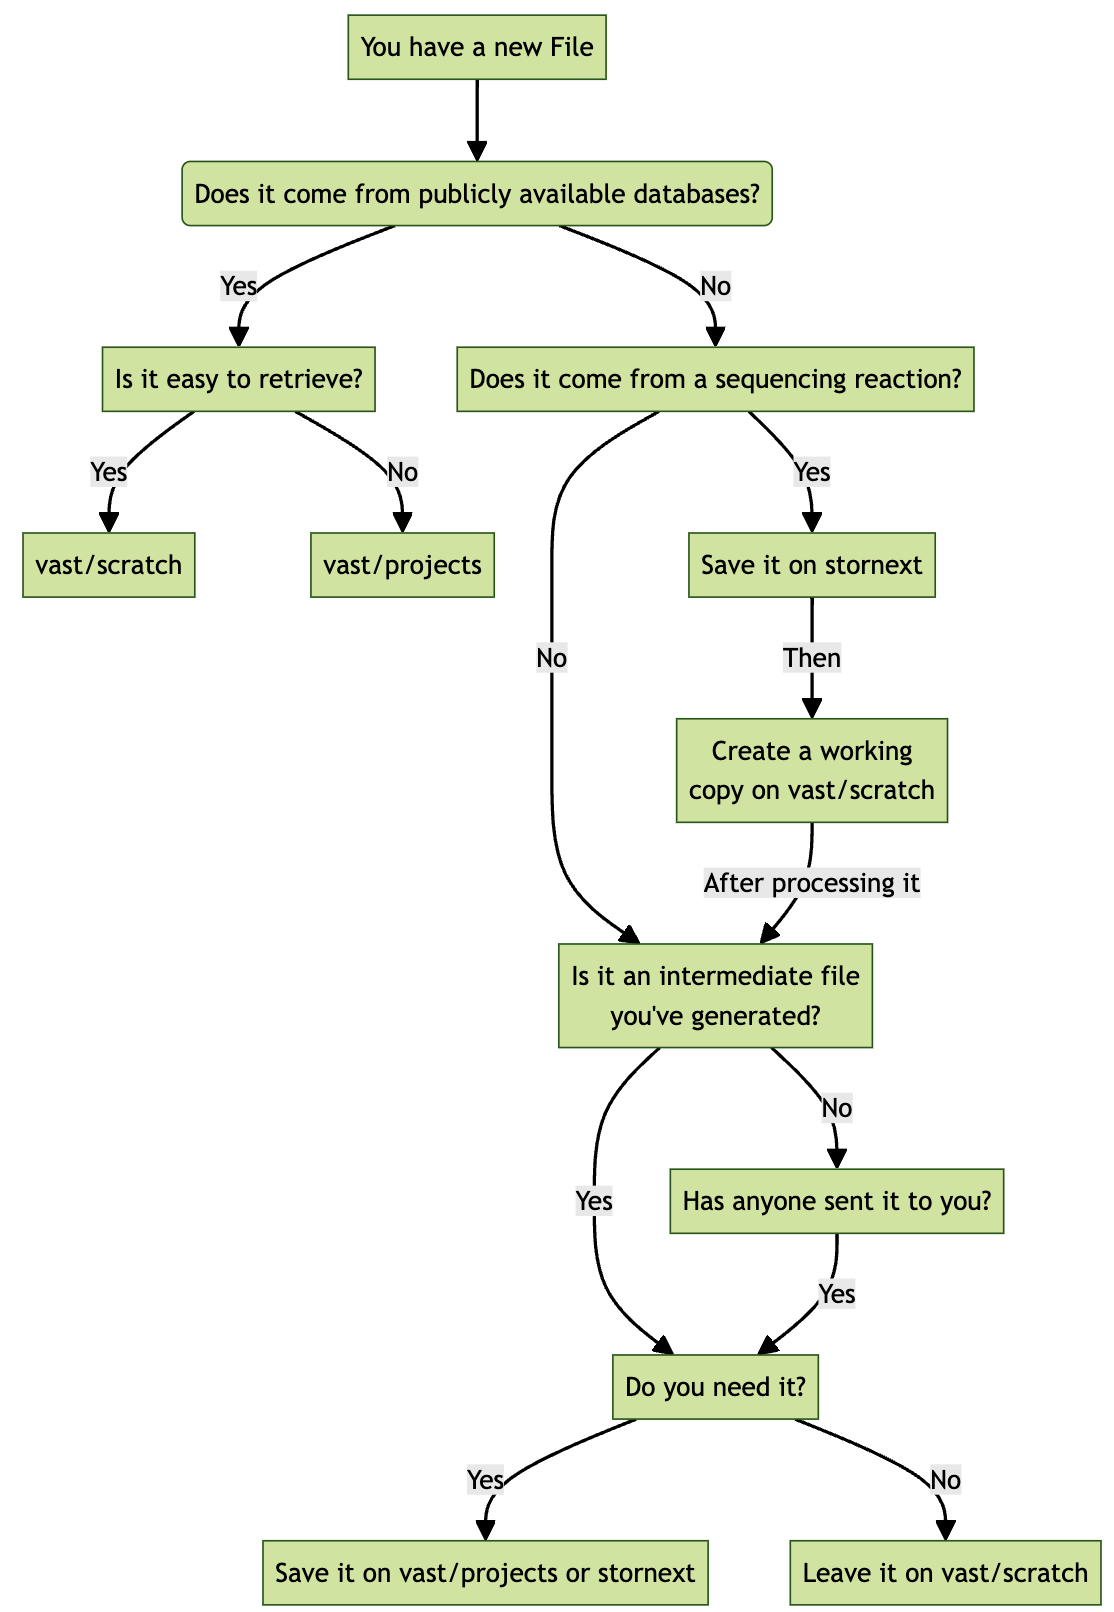
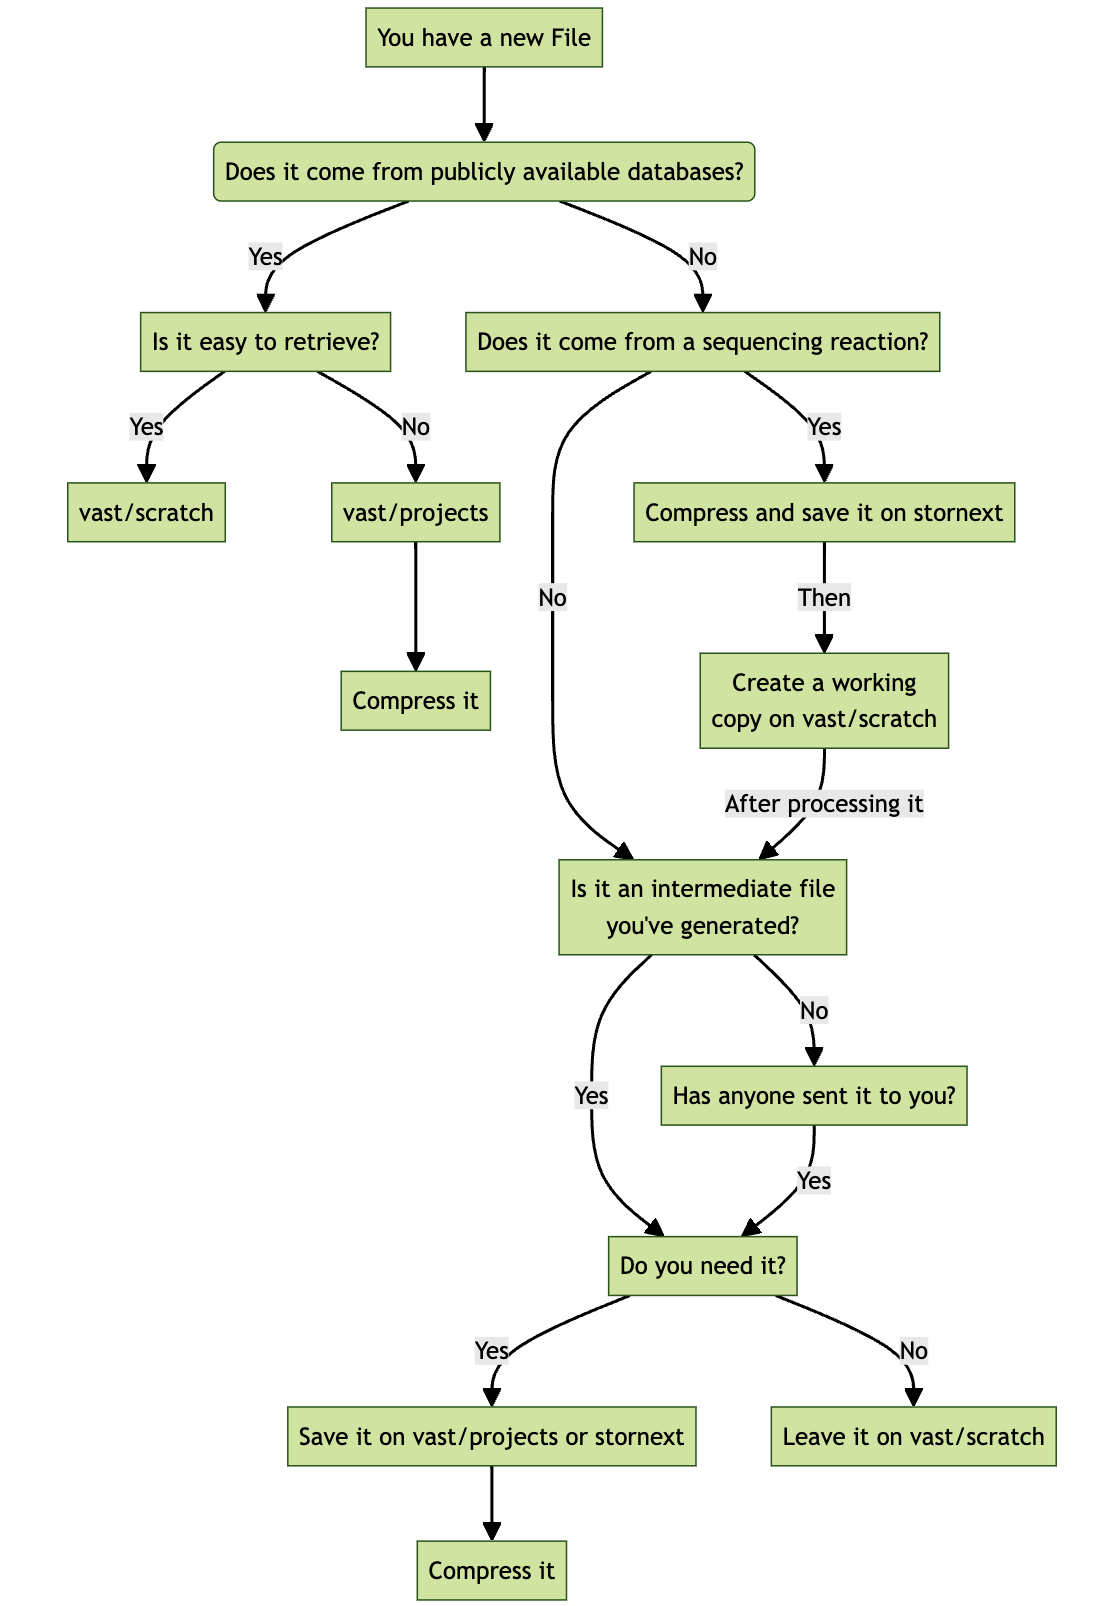
new doc on how to run executable commands

Changed region(s): [[0.0, 0.0, 1.0, 1.0]]

diff --git a/docs/managing-files-and-disk-quota.md b/docs/managing-files-and-disk-quota.md
@@ -5,7 +5,6 @@
   - [Managing data on Stornext](#managing-data-on-stornext)
     - [Archiving and retrieving files](#archiving-and-retrieving-files)
   - [VAST file system](#vast-file-system)
-  - [Best practices](#best-practices)
   - [Resources](#resources)
 --------------------------------------------------
 
@@ -68,10 +67,19 @@ Below you can find a list of commands that might be useful for checking disk spa
 
 Stornext is a file system that allows data to be stored and archived at the same time. Data are backed up to tape routinely which allows you to retrieve them in case of truncation. Space on stornext should be 1Tb by default, extendable to up to 5Tb but this requires justificatons from lab heads to WEHI IT support.
 
+Regardless of the space available on stornext, you should compress each file (and eventually tar project dirs). Compressing can be done anywhere, not only on stornext, using the `pigz` module (a faster/parallel version of `gzip`) as:
+```
+module load pigz/ 
+
+pigz --fast <file?> ## for faster compression 
+pigz --best <file? ## slower but achieves better compression
+
+```
 
 ### Archiving and retrieving files
 
 Because data on stornext are backed up onto a tape-based filesystem, any given file on stornext has 2 copies: 1)a disk and 2) an archived copy. To inspect this, upon logging into Milton and navigating to the lab stornext project directory, you can run the following command:
+
 ```
 module load stornext/  ## load the stornext module
 snfileinfo <file> 
@@ -143,30 +151,6 @@ An adequate and smart usage of all the 3 storage areas:
 Should be enough to manage most projects within the lab, check the [best practices section](#best-practices) below to read how to store and work with your data.
 
 --------------------------------------------------
-
-## Best practices
-
-The table below gives you an overview of the best practices on where and how to store files on the different storages on Milton.
-
-| **Data**        	| **Type**     	| **Source**                                       	| **File example** 	| **Store**                     	| **Compress** 	| **Tar**    	|
-|-----------------	|--------------	|--------------------------------------------------	|------------------	|-------------------------------	|--------------	|------------	|
-| Public          	| Raw          	| Public repository accessible through script      	| Fastq            	| `vast/scratch`                	| No need      	| No need    	|
-| Public          	| Raw          	| Public repository accessible through application 	| Fastq            	| `vast/project`                	| Yes          	| Preferably 	|
-| Newly generated 	| Raw          	| Sequencing facilities                            	| Fastq            	| `storenext`                   	| Yes          	| Preferably 	|
-| Intermediate    	| Preprocessed 	| Generate with custom scripts                     	| Bam              	| `vast/scratch`                	| No need      	| No need    	|
-| Final           	| Preprocessed 	| Generate with custom scripts                     	| Bed, bigWig      	| `vast/project`<br>`storenext` 	| Yes          	| Preferably 	|
-
-
-On stornext:
-* Compress large files using the `pigz` module (a faster/parallel version of `gzip`) as:
-```
-module load pigz/ 
-
-pigz --fast <file?> ## for fast compression 
-pigz --best <file? ## slower but achieves better compression
-
-```
-* store large directories as tar files (and compress them)
 
 ## Resources
 Below you can find a list of resources you can consult to learn more about filesytem management at WEHI. 

diff --git a/lab-protocols/manage-sequencing-results.md b/lab-protocols/manage-sequencing-results.md
@@ -5,13 +5,40 @@
   - [Table of Contents](#table-of-contents)
 - [Where to start](#where-to-start)
   - [Workflow](#workflow)
+  - [Examples](#examples)
 
 ----------------------------------------------------------------
 
 # Where to start
 
-So you sent some samples to be sequenced and got the results? Cool, then check the instructions and the workflow chart below as they contain information on how data is managed within the King lab.  
+So you sent some samples to be sequenced and got the results? Cool, then check the instructions and the workflow chart below as they contain information on how data is managed within the King lab. <br/>
+If you need a refresher on the different file systems available on Milton and how they work you can check the documentation available at `docs/managing-files-and-disk-quota.md` still in this repository.
 
 
 ## Workflow 
 ![Workflow file system management](../img/workflow-file-system.png)
+
+## Examples
+
+The table below gives you an overview on where to store the different files on the HPC depending on their type and/or their source.
+
+| **Data**        	| **Type**     	| **Source**                                       	| **File example** 	| **Store**                     	| **Compress** 	| **Tar**    	|
+|-----------------	|--------------	|--------------------------------------------------	|------------------	|-------------------------------	|--------------	|------------	|
+| Public          	| Raw          	| Public repository accessible through script      	| Fastq            	| `vast/scratch`                	| No need      	| No need    	|
+| Public          	| Raw          	| Public repository accessible through application 	| Fastq            	| `vast/project`                	| Yes          	| Preferably 	|
+| Newly generated 	| Raw          	| Sequencing facilities                            	| Fastq            	| `storenext`                   	| Yes          	| Preferably 	|
+| Intermediate    	| Preprocessed 	| Generate with custom scripts                     	| Bam              	| `vast/scratch`                	| No need      	| No need    	|
+| Final           	| Preprocessed 	| Generate with custom scripts                     	| Bed, bigWig      	| `vast/project`<br>`storenext` 	| Yes          	| Preferably 	|
+
+
+On stornext:
+* Compress large files using the `pigz` module (a faster/parallel version of `gzip`) as:
+```
+module load pigz/ 
+
+pigz --fast <file?> ## for fast compression 
+pigz --best <file? ## slower but achieves better compression
+
+```
+* store large directories as tar files (and compress them)
+
